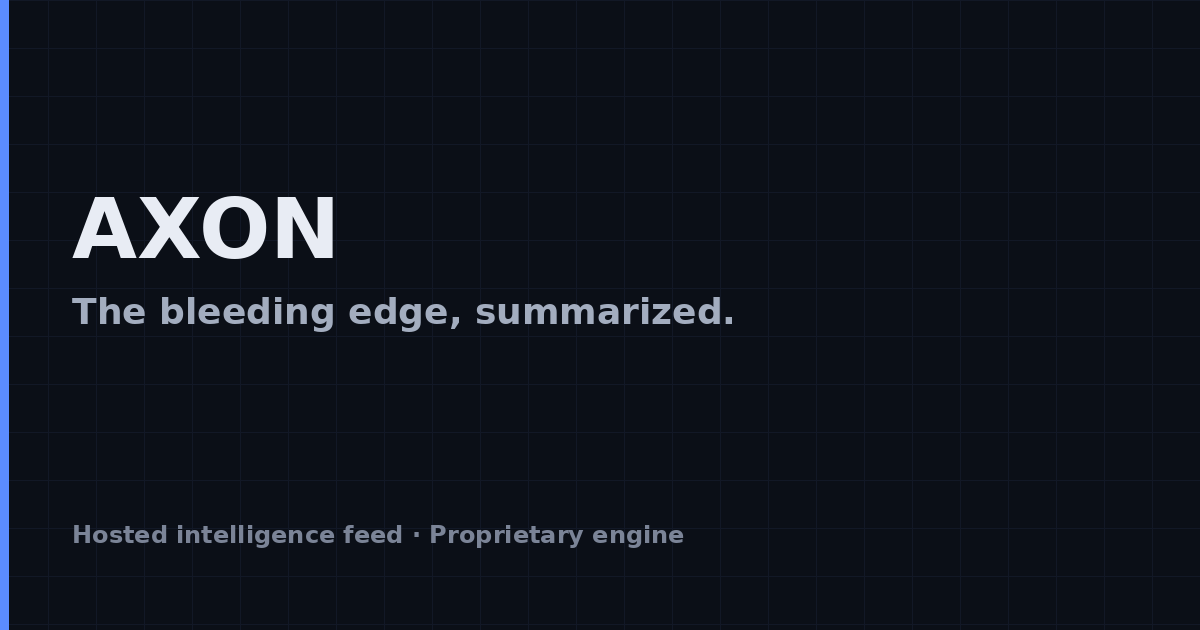
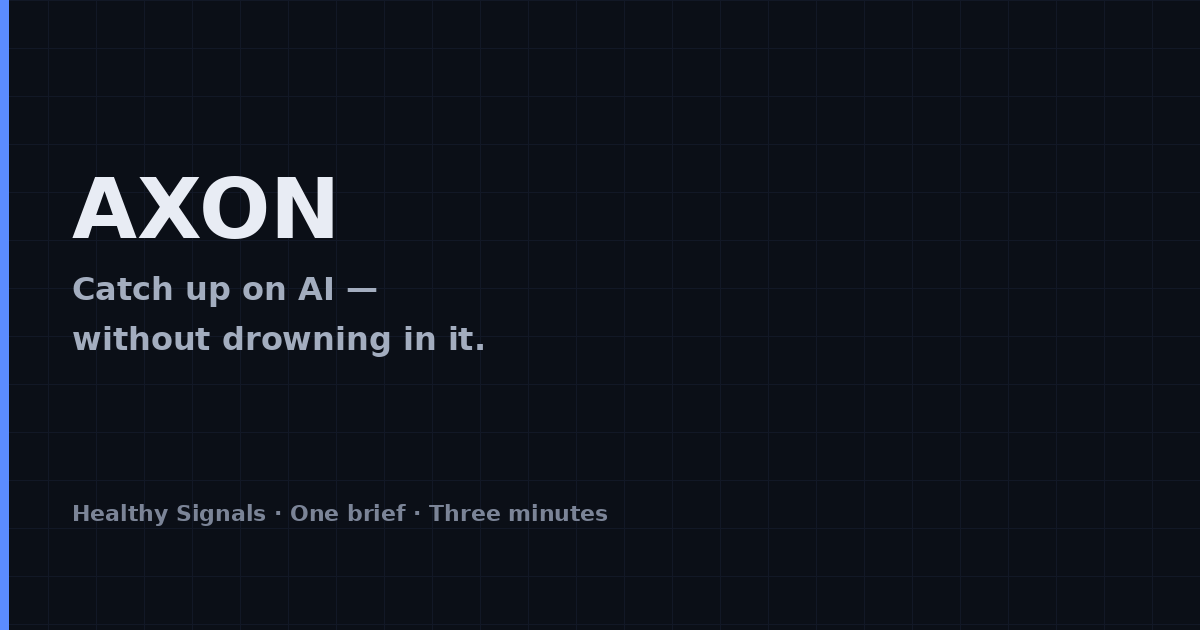
refactor: update branding and messaging across the application
- Revised the README.md to reflect a new tagline emphasizing clarity and focus on AI.
- Updated meta descriptions and titles in app.html and various Svelte components to align with the new messaging.
- Enhanced user-facing text in login and signup pages to promote the concept of "Healthy Signals" and a streamlined experience.
- Adjusted content in multiple components to emphasize the platform's purpose of filtering noise and providing valuable insights in a concise format.

Changed region(s): [[0.0617, 0.2714, 0.6167, 0.573], [0.0617, 0.7841, 0.5858, 0.8746]]

diff --git a/fronted/src/routes/+page.svelte b/fronted/src/routes/+page.svelte
@@ -7,8 +7,9 @@
 	} from 'lucide-svelte';
 
 	const SITE_URL = 'https://axon-phi-ruby.vercel.app';
+	const TAGLINE = 'Catch up on AI — without drowning in it.';
 	const OG_DESC =
-		'AXON scans Hacker News, ArXiv, GitHub, Reddit and the top AI labs, then distills the signal into a high-density 3-minute daily brief.';
+		'The world moves fast. One place to track what matters — Healthy Signals from HN, ArXiv, GitHub, Reddit, and AI labs, in a 3-minute daily brief.';
 
 	const sources = [
 		{ name: 'Hacker News', desc: 'Front page & Show HN', icon: Terminal, style: 'sm:col-span-2 sm:row-span-2 p-8' },
@@ -19,10 +20,10 @@
 	];
 
 	const engineFeatures = [
-		{ title: 'Deduplication', desc: 'Merges 50 articles about the same launch into one core update.' },
-		{ title: 'Technical extraction', desc: 'Pulls out real benchmark numbers, not marketing fluff.' },
-		{ title: 'Actionable insight', desc: 'Tells you what actually changes for what you’re building.' },
-		{ title: 'Article-scoped chat', desc: 'Interrogate any paper or release directly, powered by LLaMA 3.3.' }
+		{ title: 'Noise out', desc: 'Drops fluff, listicles, and engagement bait before they hit your brief.' },
+		{ title: 'Healthy Signal in', desc: 'Keeps papers, releases, tools, and debates that help you build.' },
+		{ title: 'Actionable insight', desc: 'Says what changed — and what it means for what you’re shipping.' },
+		{ title: 'Article-scoped chat', desc: 'Ask any signal a question, powered by LLaMA 3.3.' }
 	];
 
 	function scrollToEngine(e: MouseEvent) {
@@ -32,18 +33,18 @@
 </script>
 
 <svelte:head>
-	<title>AXON — The bleeding edge, summarized.</title>
+	<title>AXON — {TAGLINE}</title>
 	<meta name="description" content="{OG_DESC} Free to try." />
 	<meta property="og:type" content="website" />
 	<meta property="og:site_name" content="AXON" />
-	<meta property="og:title" content="AXON — The bleeding edge, summarized." />
+	<meta property="og:title" content="AXON — {TAGLINE}" />
 	<meta property="og:description" content={OG_DESC} />
 	<meta property="og:url" content={SITE_URL} />
 	<meta property="og:image" content="{SITE_URL}/og.png" />
 	<meta property="og:image:width" content="1200" />
 	<meta property="og:image:height" content="630" />
 	<meta name="twitter:card" content="summary_large_image" />
-	<meta name="twitter:title" content="AXON — The bleeding edge, summarized." />
+	<meta name="twitter:title" content="AXON — {TAGLINE}" />
 	<meta name="twitter:description" content={OG_DESC} />
 	<meta name="twitter:image" content="{SITE_URL}/og.png" />
 	<link rel="canonical" href={SITE_URL} />
@@ -87,16 +88,17 @@
 				<span class="absolute inline-flex h-full w-full animate-ping rounded-full bg-[#22C3A6] opacity-70"></span>
 				<span class="relative inline-flex h-2.5 w-2.5 rounded-full bg-[#22C3A6]"></span>
 			</span>
-			<span class="tracking-wide">LIVE · Tracking global tech signals</span>
+			<span class="tracking-wide">LIVE · HN · ArXiv · GitHub · Reddit · AI labs</span>
 		</div>
 
 		<h1 use:reveal={{ delay: 80 }} class="max-w-4xl text-4xl font-bold leading-[1.1] tracking-tight sm:text-6xl">
-			Track where technology is moving. <br class="hidden sm:block" />
-			<span class="bg-gradient-to-r from-[#5B8CFF] via-[#A3ADBF] to-[#22C3A6] bg-clip-text text-transparent">In three minutes a day.</span>
+			Catch up on AI — without drowning in it.
 		</h1>
 
 		<p use:reveal={{ delay: 160 }} class="mt-6 max-w-2xl text-base font-normal leading-7 text-zinc-600 dark:text-[#A3ADBF] sm:text-lg">
-			AXON scans <span class="text-zinc-900 dark:text-[#E8ECF4]">Hacker News, ArXiv, GitHub, Reddit, and the top AI labs</span>, then distills the signal into a high-density daily brief — so you stay on the frontier without juggling 50 tabs.
+			The world moves fast. AXON is <span class="text-zinc-900 dark:text-[#E8ECF4]">one place to track what matters</span> —
+			<span class="text-zinc-900 dark:text-[#E8ECF4]">Healthy Signals only</span> from Hacker News, ArXiv, GitHub, Reddit, and the labs.
+			Skim it in three minutes.
 		</p>
 
 		<div use:reveal={{ delay: 240 }} class="mt-8 flex w-full max-w-sm flex-col items-center gap-3">
@@ -112,7 +114,7 @@
 
 		<div use:reveal={{ delay: 320 }} class="mt-10">
 			<p class="text-sm font-medium text-zinc-500 dark:text-[#7B8497]">
-				Free to try · Proprietary curation engine · No credit card
+				Free to try · One brief · No credit card
 			</p>
 		</div>
 	</section>
@@ -123,9 +125,9 @@
 			<div class="mb-5 inline-flex items-center gap-2 rounded-full border border-zinc-300 dark:border-[#33415C] bg-white dark:bg-[#121826] px-3 py-1 text-xs font-semibold uppercase tracking-[0.14em] text-zinc-500 dark:text-[#7B8497]">
 				<span class="h-1.5 w-1.5 rounded-full bg-[#22C3A6]"></span> Phase 1 · Ingestion
 			</div>
-			<h2 class="text-3xl font-semibold tracking-tight sm:text-4xl">Tap the global firehose.</h2>
+			<h2 class="text-3xl font-semibold tracking-tight sm:text-4xl">One place to track what matters.</h2>
 			<p class="mx-auto mt-4 max-w-2xl text-base leading-7 text-zinc-600 dark:text-[#A3ADBF] sm:text-lg">
-				Stop checking 15 different sites. AXON continuously monitors the raw nodes where frontier technology is built, debated, and shipped.
+				Stop juggling 15 tabs. AXON watches where AI and tech are built, debated, and shipped — then keeps only Healthy Signals.
 			</p>
 		</div>
 
@@ -153,9 +155,10 @@
 					<div class="mb-6 inline-flex w-max items-center gap-2 rounded-full border border-zinc-300 dark:border-[#33415C] bg-zinc-100 dark:bg-[#0F1522] px-3 py-1 text-xs font-semibold uppercase tracking-[0.14em] text-zinc-500 dark:text-[#7B8497]">
 						<span class="h-1.5 w-1.5 rounded-full bg-[#5B8CFF]"></span> Phase 2 · Synthesis
 					</div>
-					<h3 class="mb-6 text-3xl font-semibold tracking-tight sm:text-4xl">Axon filters the noise.</h3>
+					<h3 class="mb-6 text-3xl font-semibold tracking-tight sm:text-4xl">Catch up — without drowning.</h3>
 					<p class="mb-8 text-base leading-7 text-zinc-600 dark:text-[#A3ADBF] sm:text-lg">
-						99% of the internet is distraction. AXON pipes thousands of daily signals through a <strong class="font-semibold text-zinc-900 dark:text-[#E8ECF4]">Groq-accelerated LLaMA 3.3 engine</strong> to extract the raw value at near-zero latency.
+						Most feeds amplify whatever gets attention. AXON’s <strong class="font-semibold text-zinc-900 dark:text-[#E8ECF4]">healthy algorithm</strong> keeps
+						<strong class="font-semibold text-zinc-900 dark:text-[#E8ECF4]">Healthy Signals</strong> — informative AI and tech worth your time — and drops the fluff. Powered by Groq and LLaMA 3.3.
 					</p>
 
 					<div class="space-y-5">
@@ -198,7 +201,7 @@
 
 						<div use:reveal={{ delay: 120 }} class="rounded-xl border border-zinc-300 dark:border-[#33415C] bg-white dark:bg-[#121826] p-5">
 							<div class="mb-3 flex items-center gap-2 font-bold text-[#22C3A6]">
-								<Zap class="h-4 w-4 fill-current" /> &gt; HIGH SIGNAL DETECTED
+								<Zap class="h-4 w-4 fill-current" /> &gt; HEALTHY SIGNAL
 							</div>
 							<p class="mb-3 leading-relaxed text-zinc-600 dark:text-[#A3ADBF]">
 								<span class="font-semibold text-zinc-900 dark:text-[#E8ECF4]">OpenAI Structured Outputs</span> cuts JSON schema hallucination by 90%.
@@ -219,9 +222,9 @@
 			<div class="mb-6 inline-flex items-center gap-2 rounded-full border border-zinc-300 dark:border-[#33415C] bg-white dark:bg-[#121826] px-3 py-1 text-xs font-semibold uppercase tracking-[0.14em] text-zinc-500 dark:text-[#7B8497]">
 				<span class="h-1.5 w-1.5 rounded-full bg-[#22C3A6]"></span> Phase 3 · Delivery
 			</div>
-			<h2 class="mb-6 text-3xl font-semibold tracking-tight sm:text-4xl">Your 3-minute advantage.</h2>
+			<h2 class="mb-6 text-3xl font-semibold tracking-tight sm:text-4xl">Your 3-minute brief.</h2>
 			<p class="mx-auto mb-14 max-w-2xl text-base leading-7 text-zinc-600 dark:text-[#A3ADBF] sm:text-lg">
-				No endless feeds. No doomscrolling. Just a clean, high-density briefing waiting for you when you wake up.
+				No endless feeds. No doomscrolling. Just Healthy Signals — waiting when you wake up.
 			</p>
 		</div>
 
@@ -266,9 +269,9 @@
 			<div class="pointer-events-none absolute inset-0 bg-gradient-to-b from-[#5B8CFF]/10 to-transparent"></div>
 
 			<div class="relative z-10">
-				<h2 class="mb-6 text-3xl font-semibold tracking-tight sm:text-5xl">Ready to plug in?</h2>
+				<h2 class="mb-6 text-3xl font-semibold tracking-tight sm:text-5xl">Ready to catch up?</h2>
 				<p class="mx-auto mb-10 max-w-xl text-base leading-7 text-zinc-600 dark:text-[#A3ADBF] sm:text-lg">
-					AXON is a hosted intelligence feed with a proprietary curation engine. Read your brief every morning — free to try, no credit card.
+					One place to track what matters. Healthy Signals only — free to try.
 				</p>
 				<div class="flex flex-col items-center justify-center gap-3 sm:flex-row">
 					<a href="/signup" class="group inline-flex h-12 items-center justify-center gap-2 rounded-md bg-black dark:bg-white text-white dark:text-black px-8 text-base font-semibold transition-colors hover:bg-zinc-800 dark:hover:bg-zinc-200">
@@ -279,7 +282,7 @@
 						How it works
 					</a>
 				</div>
-				<p class="mt-6 text-sm text-zinc-500 dark:text-[#7B8497]">Free to try · Proprietary engine · No credit card required</p>
+				<p class="mt-6 text-sm text-zinc-500 dark:text-[#7B8497]">Free to try · Healthy Signals · No credit card required</p>
 			</div>
 		</div>
 	</section>
@@ -291,7 +294,7 @@
 				<div class="flex h-7 w-7 items-center justify-center rounded-md bg-black dark:bg-white text-white dark:text-black">
 					<Zap class="h-3.5 w-3.5 fill-current" />
 				</div>
-				<span class="text-sm text-zinc-500 dark:text-[#7B8497]">Intelligence for builders.</span>
+				<span class="text-sm text-zinc-500 dark:text-[#7B8497]">Catch up on AI — without drowning in it.</span>
 			</div>
 			<div class="flex flex-wrap items-center justify-center gap-x-6 gap-y-3 text-sm font-medium text-zinc-500 dark:text-[#7B8497]">
 				<a href="/privacy" class="transition-colors hover:text-zinc-900 dark:hover:text-[#E8ECF4]">Privacy</a>
@@ -301,7 +304,7 @@
 			</div>
 		</div>
 		<div class="mx-auto w-full max-w-6xl px-5 pb-10 text-center text-xs text-zinc-400 dark:text-[#525C6E] sm:px-8 sm:text-left">
-			© 2026 Bemnet Mussa · Proprietary curation engine · Built with SvelteKit, FastAPI &amp; Groq.
+			© 2026 Bemnet Mussa · Healthy Signals only · Built with SvelteKit, FastAPI &amp; Groq.
 		</div>
 	</footer>
 

diff --git a/fronted/src/app.html b/fronted/src/app.html
@@ -6,20 +6,20 @@
 		<meta name="theme-color" content="#0b0b0b" />
 		<meta name="apple-mobile-web-app-capable" content="yes" />
 		<meta name="apple-mobile-web-app-status-bar-style" content="black-translucent" />
-		<meta name="description" content="Stay ahead on AI, tools, and tech — curated intelligence." />
+		<meta name="description" content="Catch up on AI — without drowning in it. One place for Healthy Signals from HN, ArXiv, GitHub, Reddit, and AI labs." />
 		<meta property="og:type" content="website" />
 		<meta property="og:site_name" content="AXON" />
-		<meta property="og:title" content="AXON — The bleeding edge, summarized." />
-		<meta property="og:description" content="Stay ahead on AI, tools, and tech — curated intelligence." />
+		<meta property="og:title" content="AXON — Catch up on AI — without drowning in it." />
+		<meta property="og:description" content="The world moves fast. One place to track what matters — Healthy Signals only, in three minutes." />
 		<meta property="og:image" content="https://axon-phi-ruby.vercel.app/og.png" />
 		<meta name="twitter:card" content="summary_large_image" />
-		<meta name="twitter:title" content="AXON — The bleeding edge, summarized." />
-		<meta name="twitter:description" content="Stay ahead on AI, tools, and tech — curated intelligence." />
+		<meta name="twitter:title" content="AXON — Catch up on AI — without drowning in it." />
+		<meta name="twitter:description" content="The world moves fast. One place to track what matters — Healthy Signals only, in three minutes." />
 		<meta name="twitter:image" content="https://axon-phi-ruby.vercel.app/og.png" />
 		<link rel="manifest" href="/manifest.json" />
 		<link rel="icon" type="image/svg+xml" href="/icon-192.svg" />
 		<link rel="apple-touch-icon" href="/icon-192.svg" />
-	<title>AXON — Intelligence Platform</title>
+	<title>AXON — Catch up on AI — without drowning in it.</title>
 	%sveltekit.head%
 	<!-- PostHog analytics — activate by setting VITE_POSTHOG_KEY in your .env -->
 	<script>

diff --git a/fronted/src/routes/signup/+page.svelte b/fronted/src/routes/signup/+page.svelte
@@ -91,14 +91,13 @@
 
 				<div class="max-w-md">
 					<p class="mb-4 text-xs font-bold uppercase tracking-[0.25em] text-zinc-500 dark:text-emerald-400/90">
-						High-Signal, Low-Noise
+						Catch up · Healthy Signals
 					</p>
 					<h2 class="text-3xl font-medium tracking-tight text-zinc-900 dark:text-white mb-4">
-						The bleeding edge of tech, summarized in minutes.
+						Catch up on AI — without drowning in it.
 					</h2>
 					<p class="text-base text-zinc-600 dark:text-zinc-400 leading-relaxed">
-						AXON pulls real-time signals from HackerNews, GitHub, ArXiv, and top AI feeds. <br>
-						Get a personalized	 feed you can skim in minutes.
+						The world moves fast. One place to track what matters — Healthy Signals from Hacker News, GitHub, ArXiv, and the labs.
 					</p>
 				</div>
 			</div>

diff --git a/fronted/src/routes/login/+page.svelte b/fronted/src/routes/login/+page.svelte
@@ -89,13 +89,13 @@
 
 				<div class="max-w-md">
 					<p class="mb-4 text-xs font-bold uppercase tracking-[0.25em] text-zinc-500 dark:text-blue-400/90">
-						Your Daily Briefing
+						Healthy Signals · 3 min
 					</p>
 					<h2 class="text-3xl font-medium tracking-tight text-zinc-900 dark:text-white mb-4">
-						Cut through the noise.
+						Catch up on AI — without drowning in it.
 					</h2>
 					<p class="text-base text-zinc-600 dark:text-zinc-400 leading-relaxed">
-						Sign in to see exactly where the tech world is heading today. Catch up on the latest from OpenAI, Nvidia, ProductHunt, and more.
+						One place to track what matters. Sign in for today’s brief from OpenAI, Nvidia, Product Hunt, and more.
 					</p>
 				</div>
 			</div>

diff --git a/README.md b/README.md
@@ -1,16 +1,16 @@
 <div align="center">
   <h1>⚡ Axon v1.0.0 ⚡</h1>
-  <p><b>The Official Launch Release: "The Bleeding Edge, Summarized."</b></p>
-  <p>A hosted OSINT intelligence feed for founders and builders.</p>
+  <p><b>Catch up on AI — without drowning in it.</b></p>
+  <p>One place to track what matters. Healthy Signals only.</p>
   
   <p>
     <a href="https://axon-phi-ruby.vercel.app"><b>Explore Live Demo →</b></a>
   </p>
 </div>
 
-Axon continuously scans the frontier of technical discourse — ArXiv, Hacker News, GitHub, Reddit, and elite AI labs — distilling the global firehose into a high-density, 3-minute daily brief.
+Axon exists because the world moves fast. It’s **one place to track what matters** — ArXiv, Hacker News, GitHub, Reddit, and AI labs — then keeps **Healthy Signals** (useful, informative) and filters the noise into a 3-minute daily brief.
 
-Built to solve information overload, Axon filters out the noise (no tutorials, no fluff) and surfaces the raw nodes where technology is being built, debated, and shipped.
+Built for builders who want to **catch up on AI without drowning** in tabs, fluff, or engagement bait.
 
 ---
 
